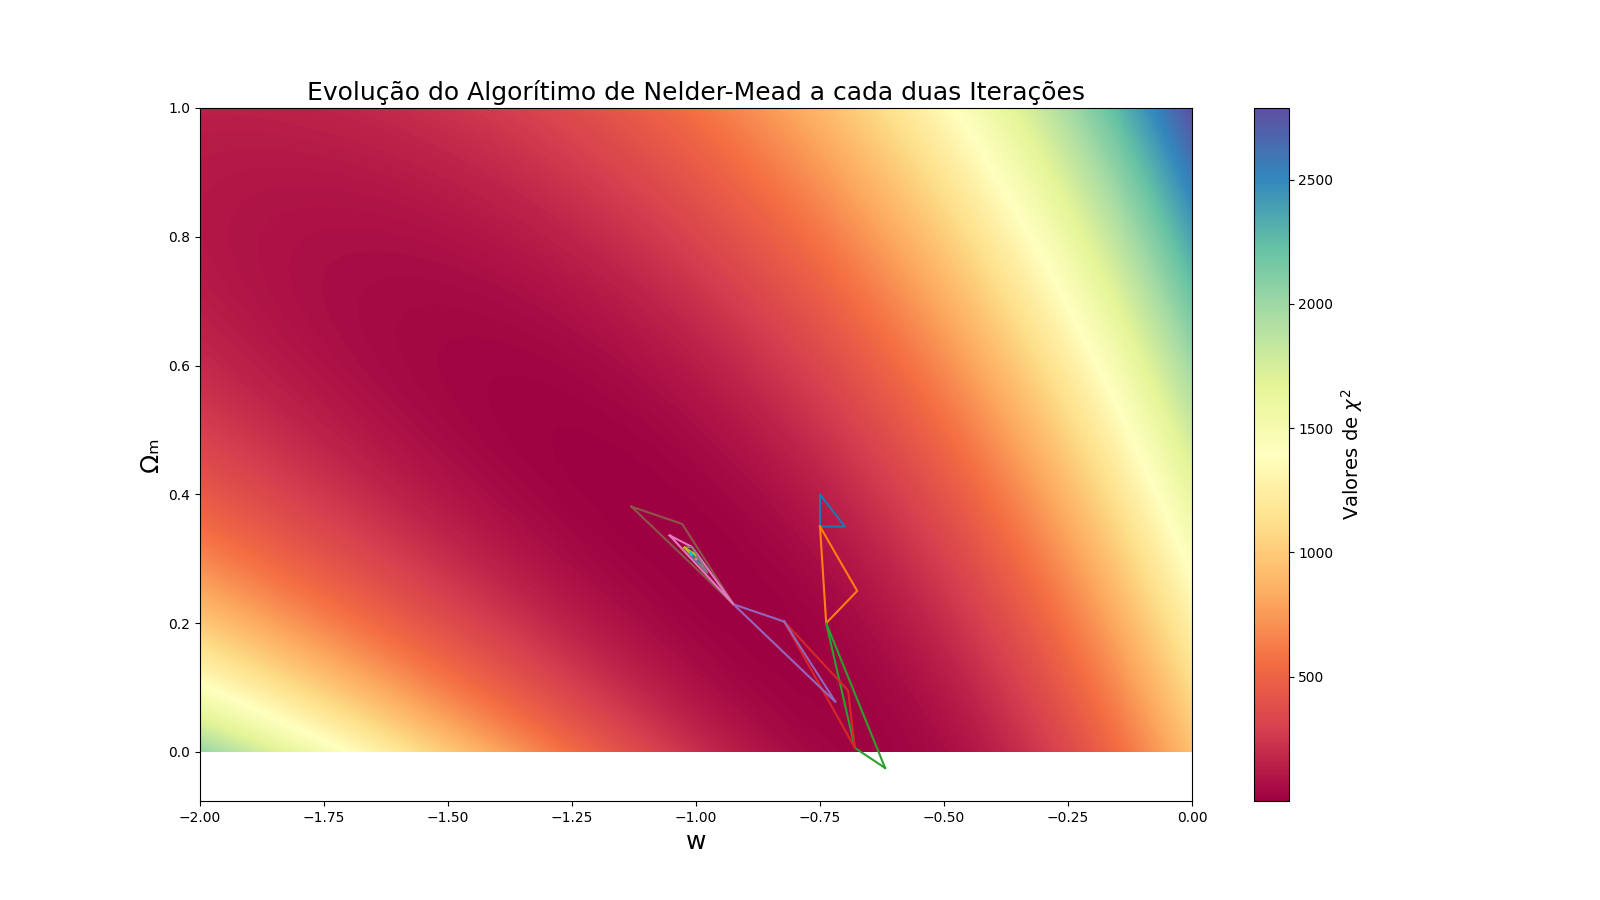
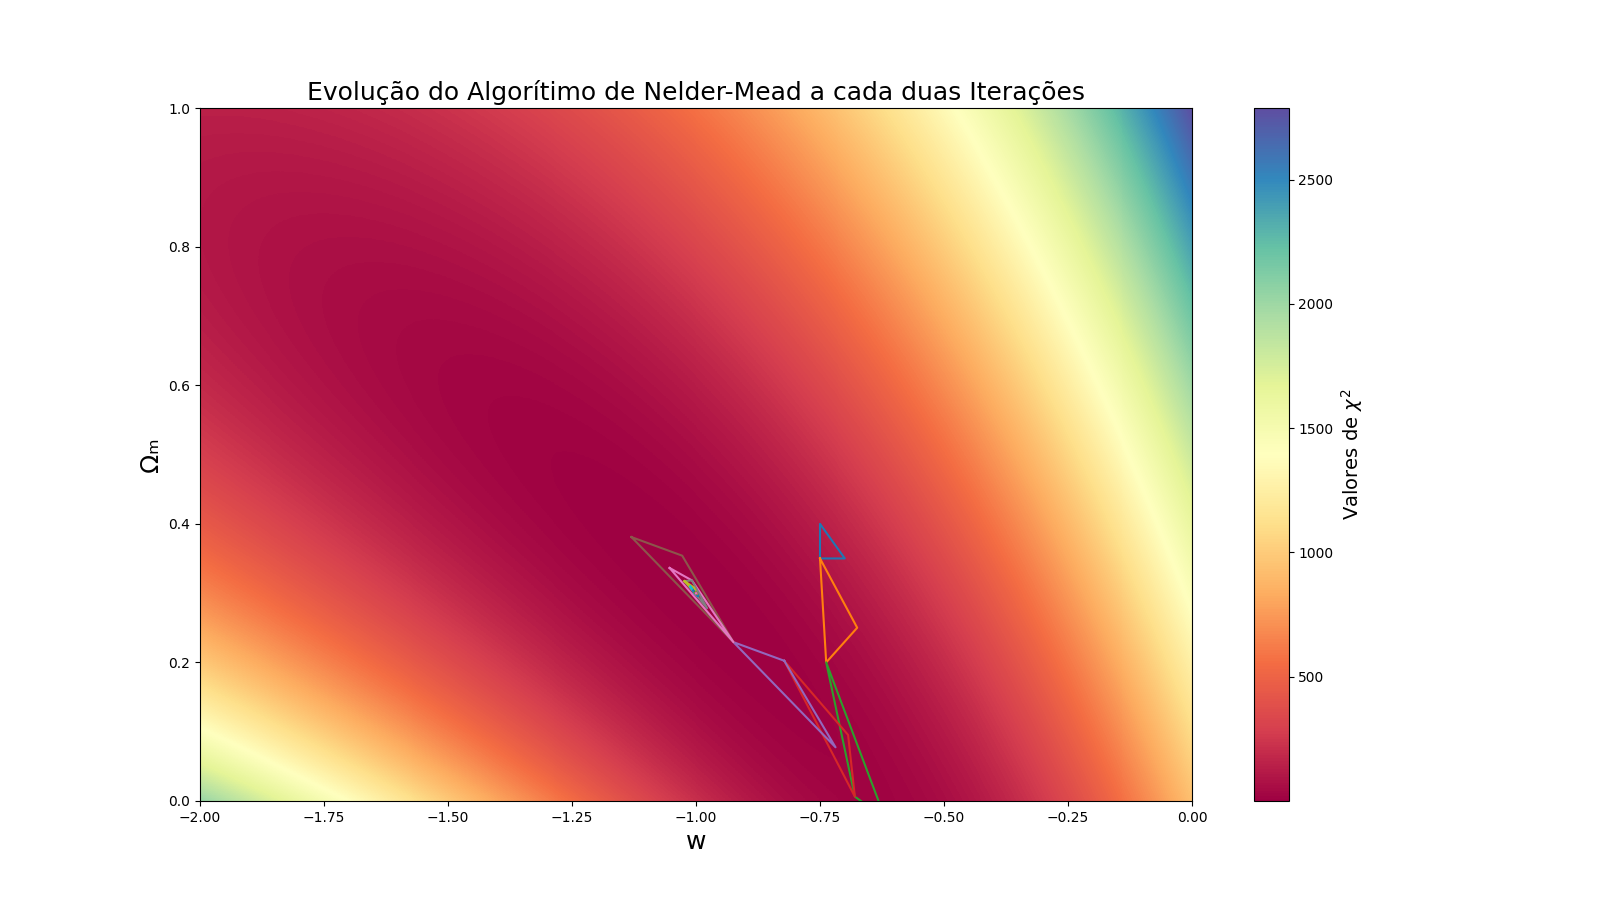
bug fix

Changed region(s): [[0.125, 0.56, 0.75, 0.9022], [0.0938, 0.4044, 0.125, 0.4356], [0.0938, 0.2489, 0.125, 0.28]]

diff --git a/snia.py b/snia.py
@@ -359,6 +359,8 @@ def plot_mead(data, params, all_dots, save=False, show=False, name="", d=False):
     plt.title("Evolução do Algorítimo de Nelder-Mead a cada duas Iterações", fontsize=18)
     plt.xlabel(xlab, fontsize=18)
     plt.ylabel(ylab, fontsize=18)
+    plt.xlim(im_range[0], im_range[1])
+    plt.ylim(im_range[2], im_range[3])
 
     plt.imshow(data, origin="lower", extent=im_range, aspect="auto", interpolation="none",
                cmap="Spectral")
